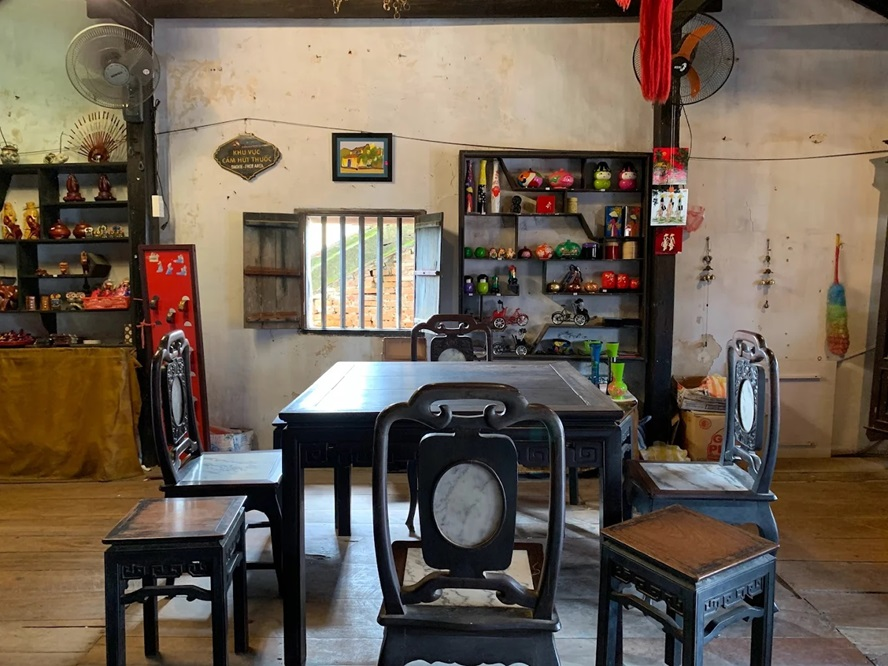
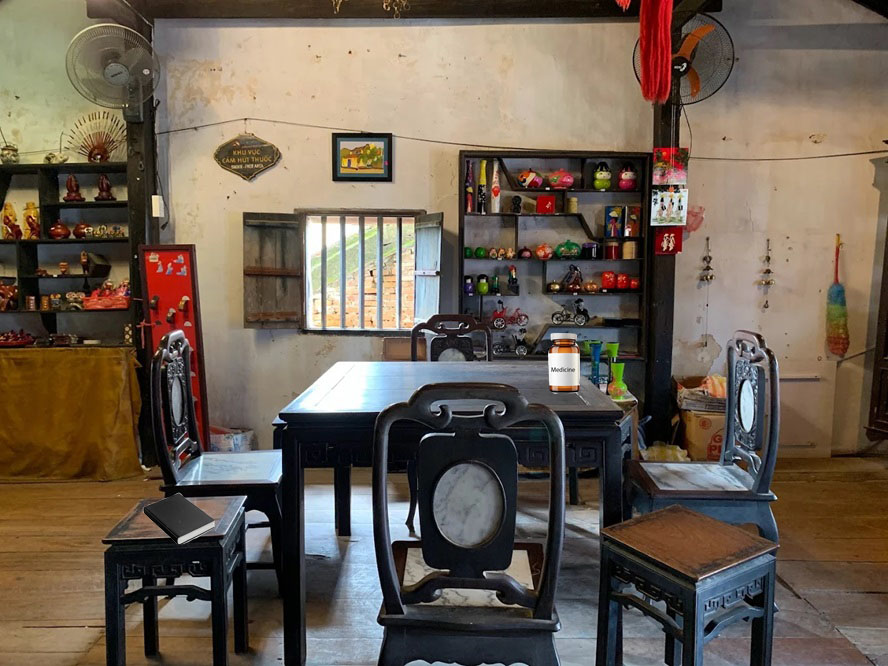
updated dining and meds pages.

Changed region(s): [[0.6081, 0.4805, 0.6689, 0.6006], [0.152, 0.7207, 0.2432, 0.8108]]

diff --git a/script.js b/script.js
@@ -136,6 +136,86 @@ function showMemory(id, hotspot) {
     }
 }
 
+const openedDiningMemories = new Set();
+
+function showDiningMemory(id, hotspot) {
+    const memory = document.getElementById(id);
+    if (!memory || !hotspot || openedDiningMemories.has(id)) {
+        return;
+    }
+
+    memory.classList.add("is-visible");
+    openedDiningMemories.add(id);
+    hotspot.remove();
+
+    if (openedDiningMemories.size === 3) {
+        const medicineHotspot = document.querySelector(".hotspot.medicine");
+        const diningPrompt = document.getElementById("diningPrompt");
+        if (medicineHotspot) {
+            medicineHotspot.disabled = false;
+            medicineHotspot.setAttribute("aria-label", "Open the medicine bottle");
+        }
+        if (diningPrompt) {
+            diningPrompt.textContent = "You found the memories. Click the medicine bottle to continue.";
+        }
+    }
+}
+
+function openMeds() {
+    const medicineHotspot = document.querySelector(".hotspot.medicine");
+    if (!medicineHotspot || medicineHotspot.disabled) {
+        return;
+    }
+
+    window.location.href = "meds.html";
+}
+
+function openPoem() {
+    window.location.href = "poem.html";
+}
+
+const poemPage = document.querySelector("body.poem-page");
+if (poemPage) {
+    const poemLines = document.querySelectorAll("#poem .poem-line");
+    const nextPoem = document.getElementById("nextPoem");
+    const revealInterval = window.matchMedia("(prefers-reduced-motion: reduce)").matches ? 0 : 2200;
+
+    poemLines.forEach(function(line, index) {
+        window.setTimeout(function() {
+            line.classList.add("show");
+            if (index === poemLines.length - 1 && nextPoem) {
+                nextPoem.hidden = false;
+            }
+        }, index * revealInterval);
+    });
+}
+
+function startPoemMemory() {
+    const poem = document.getElementById("poem");
+    const memory = document.getElementById("poemMemory");
+    if (!poem || !memory) {
+        return;
+    }
+
+    poem.hidden = true;
+    memory.hidden = false;
+
+    const memories = memory.querySelectorAll(".poem-memory-text");
+    const revealInterval = window.matchMedia("(prefers-reduced-motion: reduce)").matches ? 0 : 2200;
+    const backButton = document.getElementById("backToDining");
+    memories.forEach(function(line, index) {
+        window.setTimeout(function() {
+            line.classList.add("show");
+        }, index * revealInterval);
+    });
+
+    window.setTimeout(function() {
+        if (backButton) {
+            backButton.hidden = false;
+        }
+    }, memories.length ? (memories.length - 1) * revealInterval + (revealInterval ? 1200 : 0) : 0);
+}
+
 function openRecipe() {
     const recipeHotspot = document.querySelector(".hotspot.recipe");
     if (!recipeHotspot || recipeHotspot.disabled || document.body.classList.contains("is-leaving")) {
@@ -147,6 +227,8 @@ function openRecipe() {
         window.location.href = "recipes.html";
     }, window.matchMedia("(prefers-reduced-motion: reduce)").matches ? 0 : 1800);
 }
+
+
 
 function startRecipeMemory() {
 

diff --git a/dining.html b/dining.html
@@ -4,14 +4,60 @@
     <meta charset="UTF-8">
     <meta name="viewport" content="width=device-width, initial-scale=1.0">
     <title>Dining Room</title>
+    <link rel="stylesheet" href="styles.css">
 </head>
 <body>
     <h1>Dining Room</h1>
-    <p>
-        <i> <i>
-    </p>
-    <p>
+    <div class="dining">
+        <img src="images/dining/dining.jpg" alt="Lan's Dining Room">
+
+        <button class="hotspot dining-hotspot book" type="button"
+            aria-label="Open the book and read the poem about missing and remembering Bao"
+            aria-controls="bookMemory"
+            onclick="showDiningMemory('bookMemory', this)">
+        </button>
+
+        <button class="hotspot dining-hotspot toys" type="button"
+            aria-label="Remember the toys on the shelf"
+            aria-controls="toysMemory"
+            onclick="showDiningMemory('toysMemory', this)">
+        </button>
+
+        <button class="hotspot dining-hotspot rainbow-stick" type="button"
+            aria-label="Remember the rainbow stick"
+            aria-controls="rainbowStickMemory"
+            onclick="showDiningMemory('rainbowStickMemory', this)">
+        </button>
+
+        <button class="hotspot dining-hotspot medicine" type="button"
+            aria-label="The medicine bottle is locked until the book, toys, and rainbow stick memories are opened"
+            onclick="openMeds()" disabled>
+        </button>
+
+        <div id="bookMemory" class="memory dining-memory book-memory" role="status" aria-live="polite">
+            <h2>The Book</h2>
+            <p>
+                A poem from my grandson. It is a beautiful poem that reminds me 
+                of the importance of remembering and cherishing our loved ones.
+            </p>
+            <button type="button" onclick="openPoem()">Read the poem</button>
+        </div>
+
+        <div id="toysMemory" class="memory dining-memory toys-memory" role="status" aria-live="polite">
+            <h2>The Toys</h2>
+            <p>Toys left by my grandson. Oh, how I remember how he used to play with them!</p>
+        </div>
+
+        <div id="rainbowStickMemory" class="memory dining-memory rainbow-stick-memory" role="status" aria-live="polite">
+            <h2>The Rainbow Stick</h2>
+            <p>A colorful dust cleaner that I used to discipline my kids.</p>
+        </div>
+    </div>
+
+    <p id="diningPrompt" class="recipe-prompt" aria-live="polite">
+        Explore the book, toys, and rainbow stick to unlock the medicine bottle.
     </p>
 
+    <script src="script.js"></script>
 </body>
 </html>

diff --git a/poem.html b/poem.html
@@ -1,0 +1,67 @@
+<!DOCTYPE html>
+<html lang="en">
+<head>
+    <meta charset="UTF-8">
+    <meta name="viewport" content="width=device-width, initial-scale=1.0">
+    <title>Poem</title>
+    <link rel="stylesheet" href="styles.css">
+</head>
+
+<body class="poem-page">
+
+    <main class="poem-card">
+        <section id="poem" aria-live="polite">
+            <p>This is a poem gifted by my grandson.</p>
+            <p class="poem-line">In Vietnamese,</p>
+            <p class="poem-line">the word for missing someone</p>
+            <p class="poem-line">and remembering them</p>
+            <p class="poem-line">is the same: nhớ.</p>
+            <p class="poem-line">Sometimes,</p>
+            <p class="poem-line">when you ask me over the phone,</p>
+            <p class="poem-line poem-quote"><i>Con nhớ me khong?</i></p>
+            <p class="poem-line">I flinch, thinking you meant,</p>
+            <p class="poem-line poem-quote"><i>Do you remember me?</i></p>
+            </p>
+
+            <button id="nextPoem" type="button" onclick="startPoemMemory()" hidden>
+                Next
+            </button>
+        </section>
+
+        <section id="poemMemory" aria-live="polite" hidden>
+            <p class="poem-memory-text">
+                I miss you.
+            </p>
+            <p class="poem-memory-text">
+                I know I miss you.
+            </p>
+            <p class="poem-memory-text">
+                But sometimes when I look at you,
+                I don't know who I am missing.
+            </p>
+            <p class="poem-memory-text">
+                Your face feels familiar.
+            </p>
+            <p class="poem-memory-text">
+                Your voice feels familiar.
+            </p>
+            <p class="poem-memory-text">
+                But your name...
+            </p>
+            <p class="poem-memory-text">
+                It keeps slipping away from me.
+            </p>
+            <p class="poem-memory-text poem-conclusion">
+                I miss you more than I remember you.
+            </p>
+            <button id="backToDining" type="button" onclick="goToDining()" hidden>
+                Back to Dining Room
+            </button>
+        </section>
+    </main>
+
+
+    <script src="script.js"></script>
+
+</body>
+</html>

diff --git a/styles.css b/styles.css
@@ -44,6 +44,18 @@
     height: auto;
 }
 
+.dining {
+    position: relative;
+    width: min(100%, 1000px);
+    margin: 0 auto;
+}
+
+.dining img {
+    display: block;
+    width: 100%;
+    height: auto;
+}
+
 .hotspot {
     position: absolute;
     background: transparent;
@@ -87,7 +99,7 @@
 .sink {
     left: 0%;
     top: 75%;
-    width: 43%;
+    width: 30%;
     height: 13%;
 }
 
@@ -97,6 +109,38 @@
     top: 59%;
     width: 5%;
     height: 16%;
+}
+
+.dining-hotspot {
+    z-index: 1;
+}
+
+.book {
+    left: 15%;
+    top: 72%;
+    width: 10%;
+    height: 10%;
+}
+
+.toys {
+    left: 52%;
+    top: 24%;
+    width: 20%;
+    height: 18%;
+}
+
+.rainbow-stick {
+    left: 92%;
+    top: 35%;
+    width: 5%;
+    height: 20%;
+}
+
+.medicine {
+    left: 61%;
+    top: 49%;
+    width: 5%;
+    height: 11%;
 }
 
 .memory {
@@ -141,6 +185,25 @@
     left: 30%;
 }
 
+.dining-memory {
+    z-index: 2;
+}
+
+.book-memory {
+    bottom: 11%;
+    left: 14%;
+}
+
+.toys-memory {
+    top: 32%;
+    left: 52%;
+}
+
+.rainbow-stick-memory {
+    top: 57%;
+    right: 0%;
+}
+
 .recipe-prompt {
     min-height: 1.5em;
     margin: 8px 0 24px;
@@ -183,6 +246,46 @@ body.recipe-page.is-visible {
     margin-bottom: 6px;
 }
 
+.poem-card {
+    width: min(90vw, 700px);
+    margin: 20px auto;
+    padding: clamp(20px, 5vw, 44px);
+    color: #302317;
+    background: #fff8e2;
+    border: 1px solid #b69a69;
+    box-shadow: 0 8px 30px rgba(0, 0, 0, 0.22);
+    line-height: 1.6;
+}
+
+.poem-line,
+.poem-memory-text {
+    opacity: 0;
+    filter: blur(5px);
+    transition: opacity 1.2s ease, filter 1.2s ease;
+}
+
+.poem-line.show,
+.poem-memory-text.show {
+    opacity: 1;
+    filter: blur(0);
+}
+
+.poem-quote {
+    margin-left: 1.5em;
+}
+
+.poem-conclusion {
+    margin-top: 1.5em;
+    color: #7b351f;
+    font-size: 1.25em;
+    text-align: center;
+    text-shadow: 0 0 14px rgba(191, 117, 53, 0.45);
+}
+
+[hidden] {
+    display: none !important;
+}
+
 @keyframes memoryGlow {
     from {
         background-color: rgba(255, 255, 220, 0.08);
@@ -222,6 +325,8 @@ body {
     }
 
     .memory.is-visible,
+    .poem-line,
+    .poem-memory-text,
     body,
     body.recipe-page {
         animation-duration: 0.01ms;

diff --git a/index.html b/index.html
@@ -17,7 +17,7 @@
     
     <p class="intro-text">
         Do you know what day it is?<br>
-        Today is Tết, my favorite holiday!<br>
+        Today is <a href="https://en.wikipedia.org/wiki/T%E1%BA%BFt" target="_blank">Tết</a>, my favorite holiday!<br>
         A holiday where you celebrate with your family.
     </p>
     

diff --git a/meds.html b/meds.html
@@ -1,0 +1,10 @@
+<!DOCTYPE html>
+<html lang="en">
+<head>
+    <meta charset="UTF-8">
+    <meta name="viewport" content="width=device-width, initial-scale=1.0">
+    <title>Medicine?</title>
+    <link rel="stylesheet" href="styles.css">
+</head>
+    <img src="images/meds/meds.png" alt="Medicine Bottle">
+</html> 
